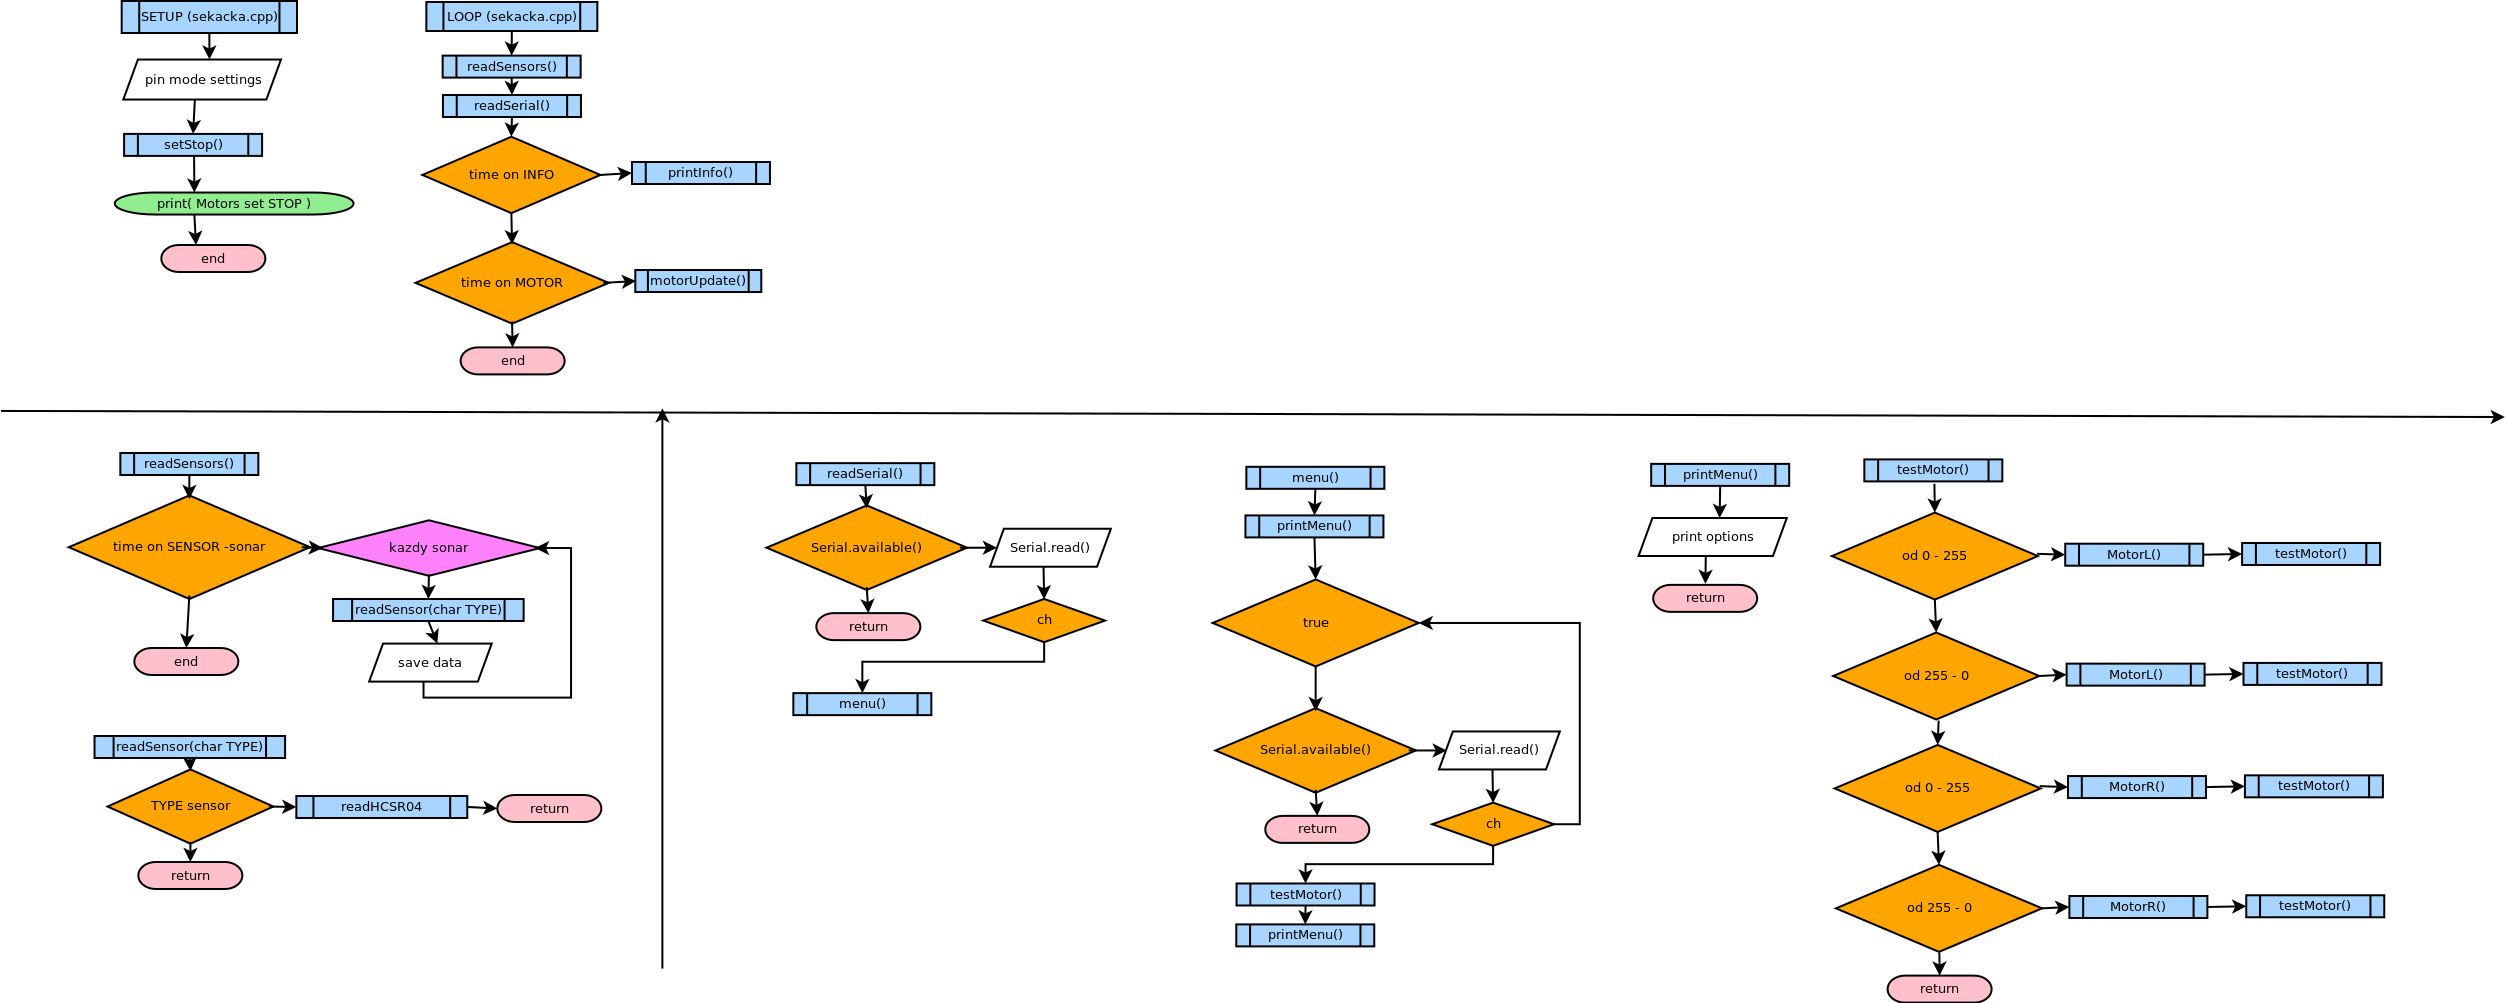
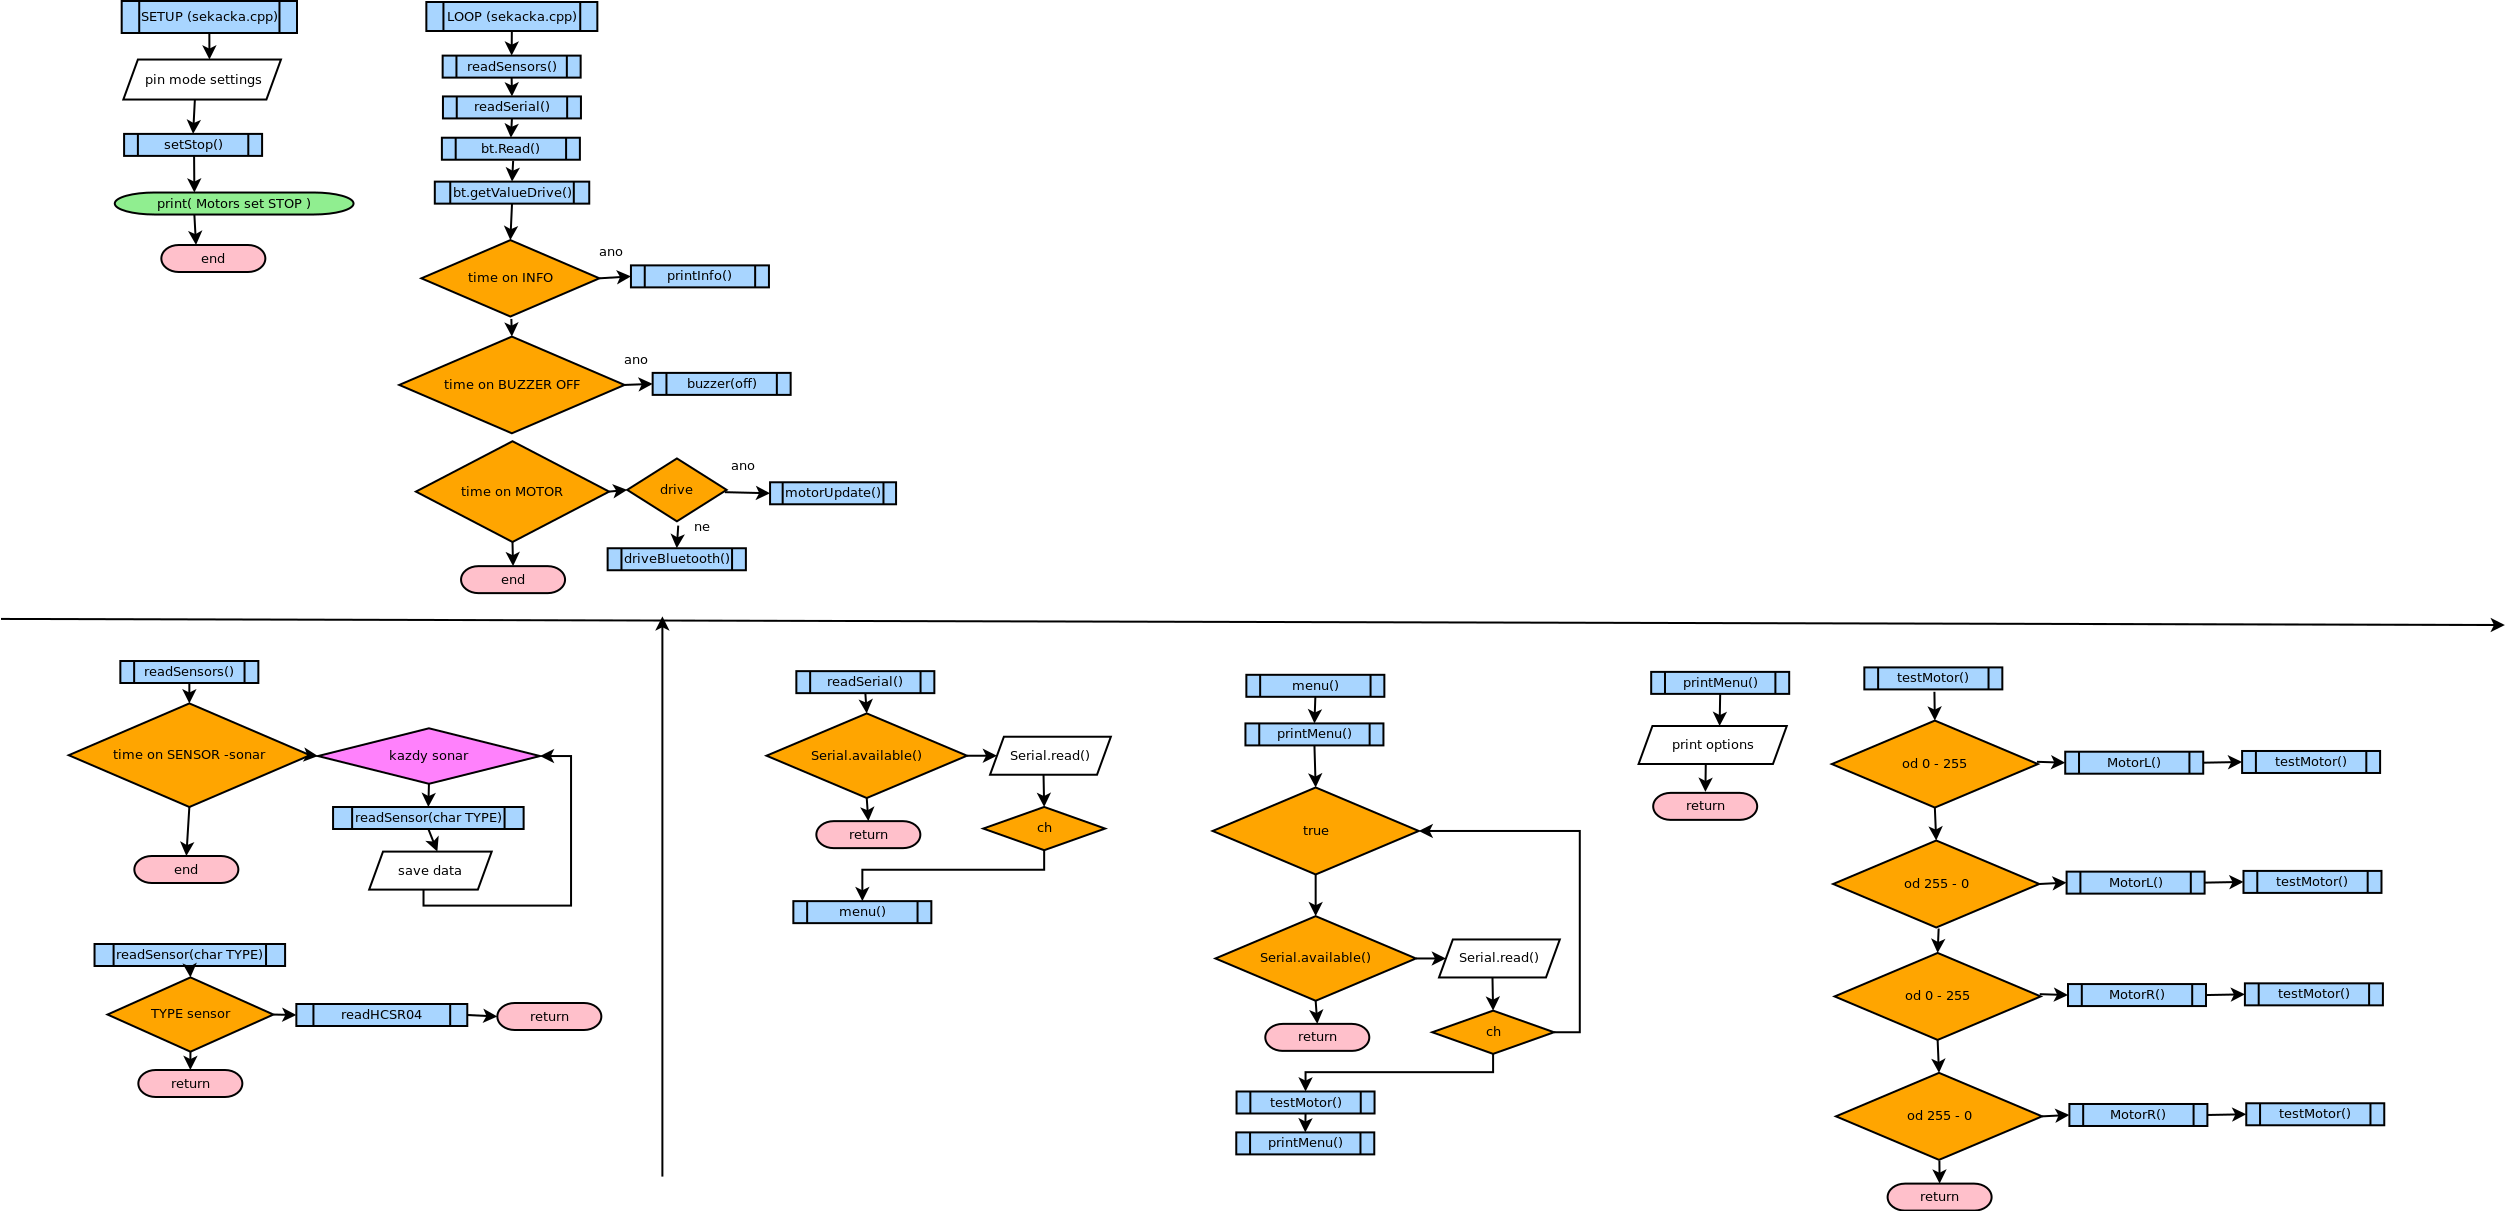
Uprava kodu + pridáni couvani na 4 sec

diff --git a/code/seki/sekacka.cpp b/code/seki/sekacka.cpp
@@ -1,4 +1,4 @@
-//
+ //
 // Created by mat on 5.11.16.
 //
 
@@ -84,7 +84,7 @@ Sekacka::Sekacka(){
     timeRotageMotor = 25;  // kolik smycek "timeRotage" je zapotřebi k otoceni sekiho
 
     // button
-    buttonUse = 0;
+    buttonUse = 1;
     
     // bumper
     bumperUse       = 0;      // use bumper?
@@ -107,6 +107,8 @@ Sekacka::Sekacka(){
     distMin = 1000;            // vzdalenost senzor - prekazkou kdy musi zastavit
     distSlow = 2000;           // vzdalenost senzor - prekazkou  kdy musi spomalit
 
+    timeButtonDelay = 0;
+    previousButtonDrive = LOW;
 
     drive = false; // zapnuti pohybu
     charBluetooth = 'X';
@@ -161,9 +163,9 @@ void Sekacka::setup(){
 
 
     attachInterrupt(digitalPinToInterrupt(pinBumperBack), naraz, HIGH);
-    attachInterrupt(digitalPinToInterrupt(pinBumperFront), naraz, HIGH);
-    attachInterrupt(pinBumperLeft, naraz, HIGH);
-    attachInterrupt(pinBumperRight, naraz, HIGH);
+    //attachInterrupt(digitalPinToInterrupt(pinBumperFront), naraz, HIGH);
+    //attachInterrupt(pinBumperLeft, naraz, HIGH);
+    //attachInterrupt(pinBumperRight, naraz, HIGH);
 
     //ledDisplay
     ld.init();
@@ -188,7 +190,8 @@ void Sekacka::setup(){
 }
 
 void static Sekacka::naraz(){
-    Serial.println("naraz");
+ //   Serial.println("naraz");
+   //1 drive = !drive;
 }
 
 void Sekacka::loop(){
@@ -294,18 +297,15 @@ void Sekacka::readSensors() {
         ld.setSensor(sonarDistCenterLeft,sonarDistCenterRight, sonarDistRight, sonarDistLeft);
     }
     if(buttonUse){
-        int reading = 0;
-        reading = digitalRead(pinButtonDrive);
+        int cteni = 0;
+        cteni = digitalRead(pinButtonDrive);
 
-        if (reading == HIGH && millis() - timeButtonDelay > 1000) {
-          if (drive == false)
-            drive = true;
-          else
-            drive = false;
-      
-          timeButtonDelay = millis();    
+        if (cteni == HIGH && previousButtonDrive == LOW && millis() - timeButtonDelay > 1000) {
+            setDrive();
+            timeButtonDelay = millis();
         }
-      }
+        previousButtonDrive = cteni;
+    }
 }
 
 int Sekacka::readSensor(char type){
@@ -397,12 +397,20 @@ void Sekacka::motorUpdate(){
 
     motorMower(pinMowerPWM, 255);
     timeUpdateTime++;
+
+    // couvání
+    if(loopAutoBack > 10 && loopAutoBack < 50){
+        motorPohyb(MOTOR_BACK,50);
+        loopAutoBack++;
+        timeUpdateTime = 0;
+        return;
+    }
     
     //zpomalení před překážkou
-    
+    // funguje jen jednou - smazat
     if(sonarMuzu(FRONT_SLOW) && timeRotage == 0){
         motorPohyb(MOTOR_FRONT, 50);
-    return;
+        return;
     }
 
     // otočení
@@ -411,9 +419,10 @@ void Sekacka::motorUpdate(){
         motorPohyb(MOTOR_STOP,0);
         delay(500);
       }
+        // na nic - smazat
         if(sonarMuzu(LEFT) == 0){
-          motorPohyb(MOTOR_STOP,0);
-          return;
+          //motorPohyb(MOTOR_STOP,0);
+          //return;
         }
         timeRotage++;
         motorPohyb(MOTOR_LEFT,0);
@@ -424,13 +433,16 @@ void Sekacka::motorUpdate(){
 
     // když nemuže dopředu a ani vlevo
     if(sonarMuzu(STOP) && !sonarMuzu(LEFT)){
+        loopAutoBack++;
         motorPohyb(MOTOR_STOP,0);
-        buzzer(1500);
-        return 0;
+        //buzzer(1500);
+        Console.println("if start couvani");
+        return;
     }
     // pomalý rozjezd
     if(timeUpdateTime < updateTimeMotor/2){
         motorPohyb(MOTOR_FRONT, map(timeUpdateTime,0,50,0,100));
+        loopAutoBack = 0; // resetování couvání
     }else{
         motorPohyb(MOTOR_FRONT, 100);
     }
@@ -458,8 +470,9 @@ void Sekacka::motorPohyb(char type, int value = 0){
             motorR.setData(true, 128);
             break;
         case MOTOR_BACK:
-            motorR.setData(false, 255);
-            motorL.setData(false, 255);
+            Console.println(value);
+            motorR.setData(false, value);
+            motorL.setData(false, value);
             break;
         case MOTOR_BACK_LEFT:
             motorL.setData(false, 128);
@@ -499,8 +512,7 @@ void Sekacka::readSerial() {
             case 'v':
                 break;
             case 'D':
-                if(drive == true) drive = false;
-                else drive = true;
+                setDrive();
                 Console.print("SET drive");
                 Console.println(drive);
                 break;
@@ -532,8 +544,7 @@ void Sekacka::menu(){
                     printMenu();
                     break;
                 case 'D':
-                    if(drive == true) drive = false;
-                    else drive = true;
+                    setDrive();
                     Console.print("SET drive");
                     Console.println(drive);
                     printMenu();
@@ -622,3 +633,7 @@ void Sekacka::buzzer(int sec){
   buzzerDriver(pinBuzzer, 1);
   nextOffBuzzer = sec + millis();
   }
+void Sekacka::setDrive(){
+    drive = !drive;
+    bt.setValueDrive(drive);
+}

diff --git a/code/seki/bluetooth.cpp b/code/seki/bluetooth.cpp
@@ -56,7 +56,7 @@ void Bluetooth::readBT(){
 
                 
               case 101:
-                Serial.println("-------DRIVE-----------");
+                Serial.println("---BLUETOOTH---SET---DRIVE---");
                 buffer = Serial1.read();      // přečte
                 if(buffer > 0 && buffer < 21) // oveři zda je to v rozmeti o 0-100
                   valueDrive = !valueDrive;
@@ -66,7 +66,7 @@ void Bluetooth::readBT(){
     }
 }
 int Bluetooth::getRychlost()const {
-    if (millis() <= killTime + 700)
+    //if (millis() <= killTime + 700)
         return this->rychlost;
     return 0;
 }
@@ -77,6 +77,10 @@ int Bluetooth::getUhel() const {
 bool Bluetooth::getValueDrive() const{
   return this->valueDrive;
   }
+
+void Bluetooth::setValueDrive(bool valueDrive){
+    this->valueDrive = valueDrive;
+}
 
 bool Bluetooth::isCon(){
     return Serial1;

diff --git a/code/seki/sekacka.h b/code/seki/sekacka.h
@@ -105,6 +105,8 @@ private:
      */
     void readBluetooth();
 
+    void setDrive();
+
     /**
      * metoda která reaguje ma přerušení
      */
@@ -119,6 +121,7 @@ private:
     void driveBluetooth();
 
 
+    int previousButtonDrive;
 
     int loopCounter;
     /**
@@ -152,6 +155,10 @@ private:
     *  smycky obnov motoru
     */
     int timeUpdateTime;
+    /**
+    *  smycky couvání
+    */
+    int loopAutoBack;
     /**
     *  cas obnovy
     */

diff --git a/code/seki/bluetooth.h b/code/seki/bluetooth.h
@@ -46,6 +46,7 @@ class Bluetooth {
         int getRychlost() const;
         int getUhel() const;
         bool getValueDrive () const;
+        void setValueDrive (bool);
 private:
         /**
         *  proměnná pro čtení z seriové liky
